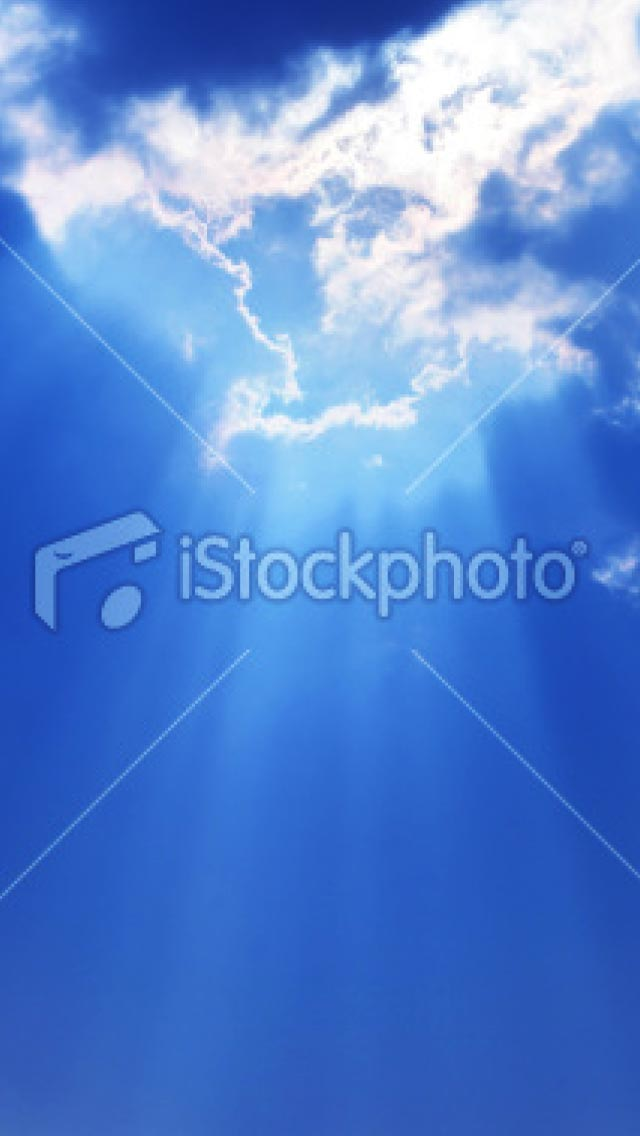
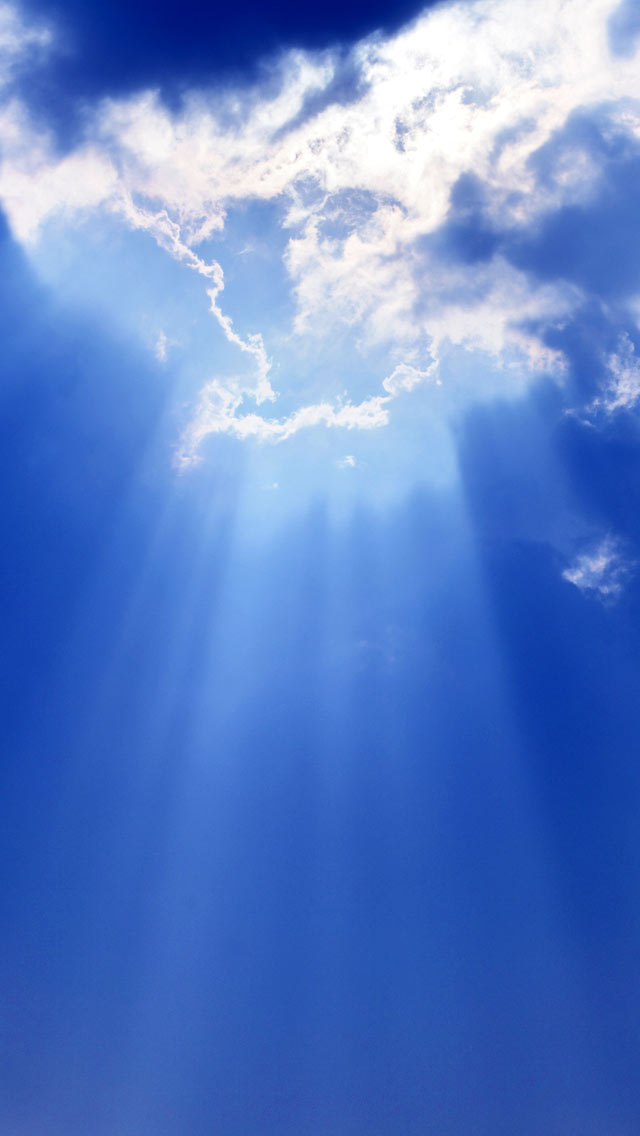
added postdonate page styles

diff --git a/app/assets/stylesheets/rails_application/donation.css.sass b/app/assets/stylesheets/rails_application/donation.css.sass
@@ -1,0 +1,75 @@
+
+  
+.postdonate_page
+  color: white
+  text-align: center
+  img
+    width: 140px
+    height: 140px
+
+  h1
+    background-color: #f7f0e6
+    border-radius: 10px
+    font-weight: bold
+    padding: 10px 0
+    margin: 0 auto 1em
+    max-width: 500px
+    color: #3b5998
+
+  ul.links
+    max-width: 500px
+    margin: 0 auto
+    text-align: left
+    li
+      background: url('') no-repeat 0% 50%
+      background-size: 50px 50px
+
+      &.facebook
+        background-image: url('/images/icons/fb-icon.png')
+      &.email
+        background-image: url('/images/icons/email-icon.png')
+        background-size: 50px 31px
+      &.sin_again
+        background-image: url('/images/icons/devilhorns-icon.png')
+        background-size: 50px 31px
+    a
+      display: block
+      color: white
+      padding: 10px 10px 10px 60px
+      
+
+    
+
+
+
+
+@media (max-width: 600px)
+  body.donations_controller
+    background: url('/images/sky-background.jpg') no-repeat 50%
+    .content
+      padding-top: 20px
+
+
+
+@media (min-width: 600px)
+  body.donations_controller
+    .content
+      padding-top: 20px
+  .postdonate_page
+    background: url('/images/sky-background.jpg') no-repeat 50%
+    border-radius: 50px
+    border: 2px solid #f7f0e6
+    height: 500px
+    padding-top: 2em
+    margin: 2em auto 0
+    width: 640px
+    margin-top: 0px
+  
+    img
+      width: 200px
+      height: 200px
+
+    h1
+      margin-bottom: 3em
+
+

diff --git a/app/helpers/donations_helper.rb b/app/helpers/donations_helper.rb
@@ -1,2 +1,11 @@
 module DonationsHelper
+
+  def facebook_share_url
+    # todo: this should be configured somewhere:
+    ablass_domain = 'http://www.ablass-app.de'
+    fb_base = "https://www.facebook.com/sharer/sharer.php?"
+    url_param = "u=#{CGI::escape(ablass_domain)}"
+    fb_base + url_param
+  end
+
 end

diff --git a/app/controllers/donations_controller.rb b/app/controllers/donations_controller.rb
@@ -16,6 +16,7 @@ class DonationsController < ApplicationController
   end
 
   def show
+    @no_header = true
     if @donation = Donation.find_by_token(params[:donation_client_reference])
     else
       render text: 'ouch, no such donation', status: :not_found
